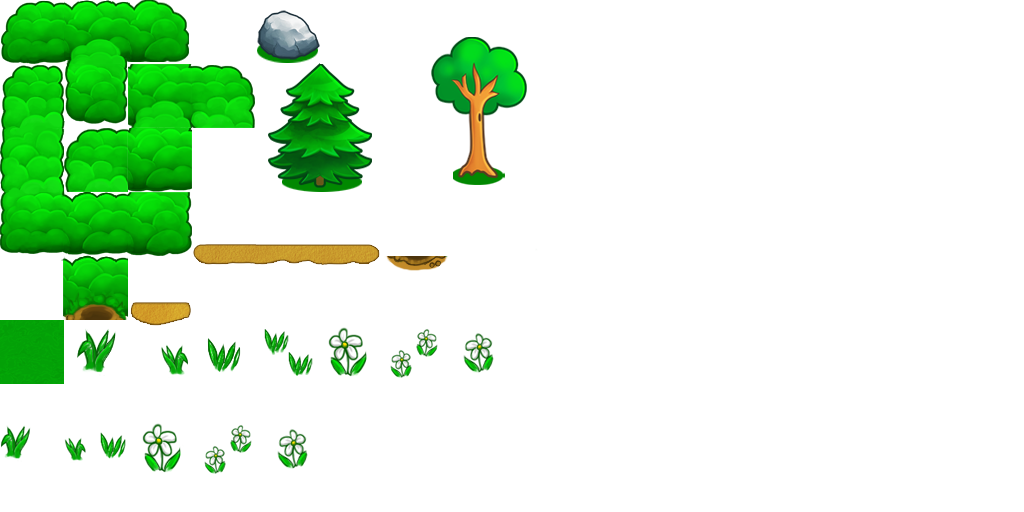
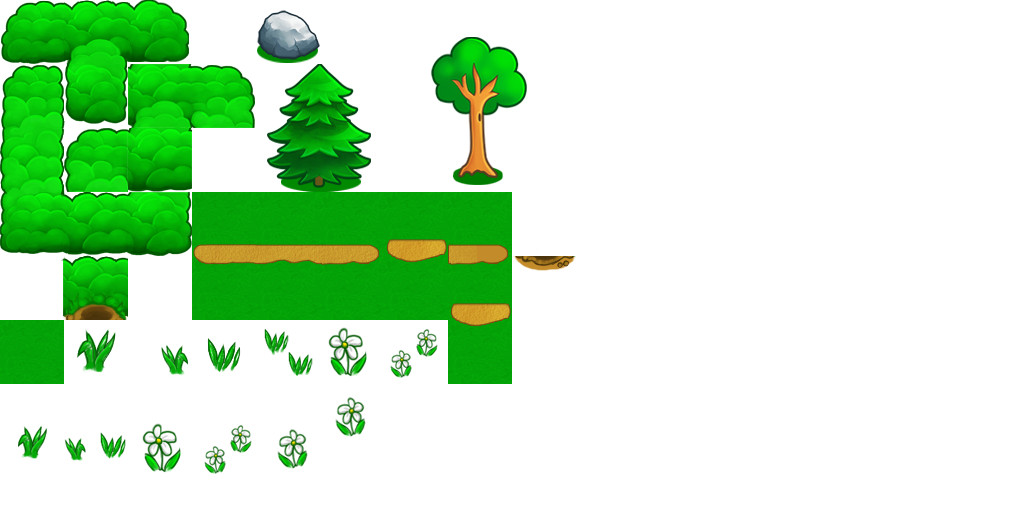
new map

diff --git a/megafoxhunt-server/src/net/megafoxhunt/server/ServerRooms.java b/megafoxhunt-server/src/net/megafoxhunt/server/ServerRooms.java
@@ -48,12 +48,12 @@ public class ServerRooms {
 	}
 	public void startGame(GameRoom room){	
 		if(room.getRoomState() == GameRoom.STATE_LOBBY){
-			room.changeMap(GameMapSharedConfig.TEST_MAP, gameServer.idHandler);	
+			room.changeMap(GameMapSharedConfig.MAP1, gameServer.idHandler);	
 			room.startSimulation(gameServer.idHandler);		
 			room.setChasedsAndChasers();
 			room.generateBerries(GameMapServerSide.TOTAL_BERRIES, gameServer.idHandler);
-			room.addInitialPowerups(GameMapSharedConfig.DEBUG_MAP.getMaxPowerups(), gameServer.idHandler);
-			room.addInitialPickupItems(GameMapSharedConfig.DEBUG_MAP.getMaxPickupItems(), gameServer.idHandler);
+			room.addInitialPowerups(GameMapSharedConfig.MAP1.getMaxPowerups(), gameServer.idHandler);
+			room.addInitialPickupItems(GameMapSharedConfig.MAP1.getMaxPickupItems(), gameServer.idHandler);
 			room.switchState(GameRoom.STATE_GAME);
 			room.startClock(GameRoom.MATCH_LENGHT_SECONDS_DEFAULT);
 			room.startRespawner(5000, gameServer.idHandler);

diff --git a/megafoxrun/src/net/megafoxhunt/screens/GameScreen.java b/megafoxrun/src/net/megafoxhunt/screens/GameScreen.java
@@ -37,8 +37,8 @@ public class GameScreen implements Screen {
 
 	public static final float UNIT_SCALE = 1 / 64f;
 	
-	private static final int FIT_TILES_WIDTH = 24;
-	private static final int FIT_TILES_HEIGHT = 16;
+	private static final int FIT_TILES_WIDTH = 20;
+	private static final int FIT_TILES_HEIGHT = 14;
 
 	private OrthogonalTiledMapRenderer renderer;
 	private OrthographicCamera camera;
@@ -87,7 +87,7 @@ public class GameScreen implements Screen {
 		
 		// DRAW MAP
         renderer.setView(camera);
-        renderer.render(new int[] {0, 1});
+        renderer.render(new int[] {0, 1, 2});
 		
 		// INIT BATCH
 		Batch batch = renderer.getSpriteBatch();
@@ -115,7 +115,7 @@ public class GameScreen implements Screen {
         batch.end();
         
         
-        renderer.render(new int[] {2});
+        renderer.render(new int[] {3});
         
         // DRAW JOYSTICK AND FPS
         spriteBatch.begin();

diff --git a/ServerClientShared/src/net/megafoxhunt/shared/GameMapSharedConfig.java b/ServerClientShared/src/net/megafoxhunt/shared/GameMapSharedConfig.java
@@ -4,6 +4,7 @@ public class GameMapSharedConfig {
 	
 	public static final GameMapSharedConfig DEBUG_MAP = new GameMapSharedConfig("Debug", "data/basic_map.tmx", "data/basic_map.txt", 35, 25, 10, 5 );	
 	public static final GameMapSharedConfig TEST_MAP = new GameMapSharedConfig("Test", "data/test_map.tmx", "data/test_map.txt", 15, 15, 2, 2);
+	public static final GameMapSharedConfig MAP1 = new GameMapSharedConfig("Map1", "data/map1.tmx", "data/map1.txt", 35, 25, 6, 6);
 	
 	private String name;
 	private String tiledMapPath;

diff --git a/megafoxhunt-server/src/net/megafox/game/GameMapServerSide.java b/megafoxhunt-server/src/net/megafox/game/GameMapServerSide.java
@@ -63,7 +63,7 @@ public class GameMapServerSide {
 			        
 			        Entity target = null;
 			        
-			        if (n == 1 || n == 2 || n == 3 || n == 4 || n == 17 || n == 18 || n == 19 || n == 20 || n == 33 ||
+			        if (n == 1 || n == 2 || n == 3 || n == 40 || n == 17 || n == 18 || n == 19 || n == 20 || n == 33 ||
 			        		n == 34 || n == 35 || n == 49 || n == 50 || n == 51 || n == 5 || n == 37 || n == 38) {
 			        	target = WALL;
 			        } else if (n == 66) {

diff --git a/megafoxrun/src/net/megafoxhunt/core/MapHandler.java b/megafoxrun/src/net/megafoxhunt/core/MapHandler.java
@@ -11,6 +11,8 @@ public class MapHandler {
 			currentMap = new GameMapClientSide(GameMapSharedConfig.DEBUG_MAP);
 		} else if (name.equals(GameMapSharedConfig.TEST_MAP.getName())) {
 			currentMap = new GameMapClientSide(GameMapSharedConfig.TEST_MAP);
+		} else if (name.equals(GameMapSharedConfig.MAP1.getName())) {
+			currentMap = new GameMapClientSide(GameMapSharedConfig.MAP1);
 		}
 	}	
 	public void dispose() {

diff --git a/megafoxrun/src/net/megafoxhunt/core/MyGdxGame.java b/megafoxrun/src/net/megafoxhunt/core/MyGdxGame.java
@@ -6,7 +6,7 @@ import com.badlogic.gdx.Gdx;
 
 public class MyGdxGame extends Game {	
 	
-	public static final String IP_SERVER = "localhost";
+	public static final String IP_SERVER = "54.72.36.237";
 	//public static final String IP_SERVER = "54.72.36.237";
 	
 	public static GameResources resources; 	
